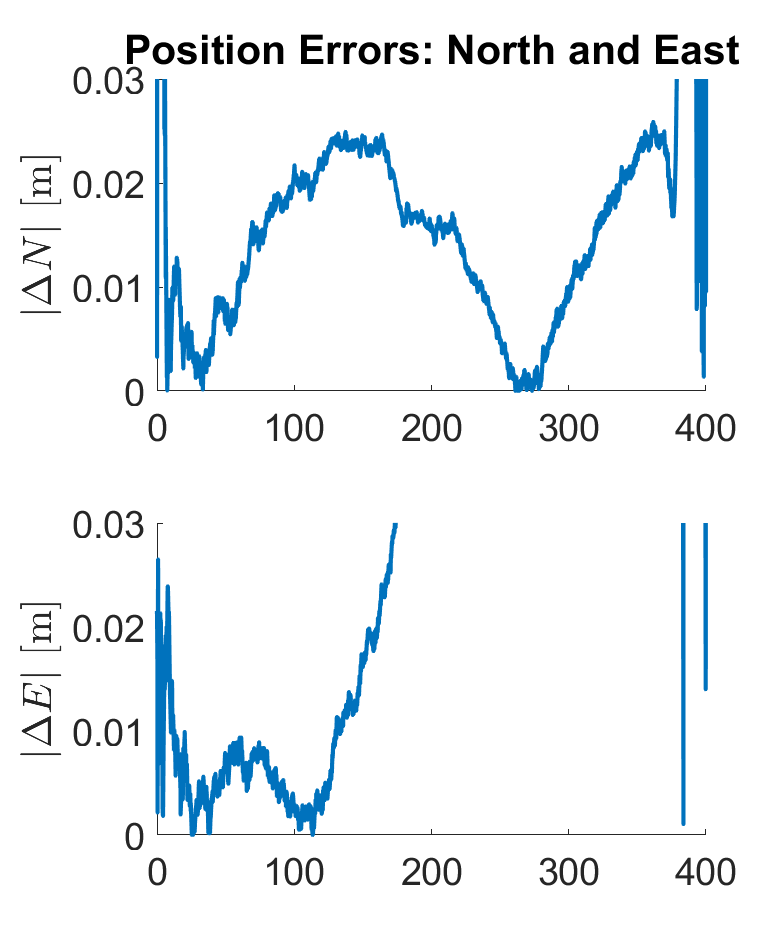
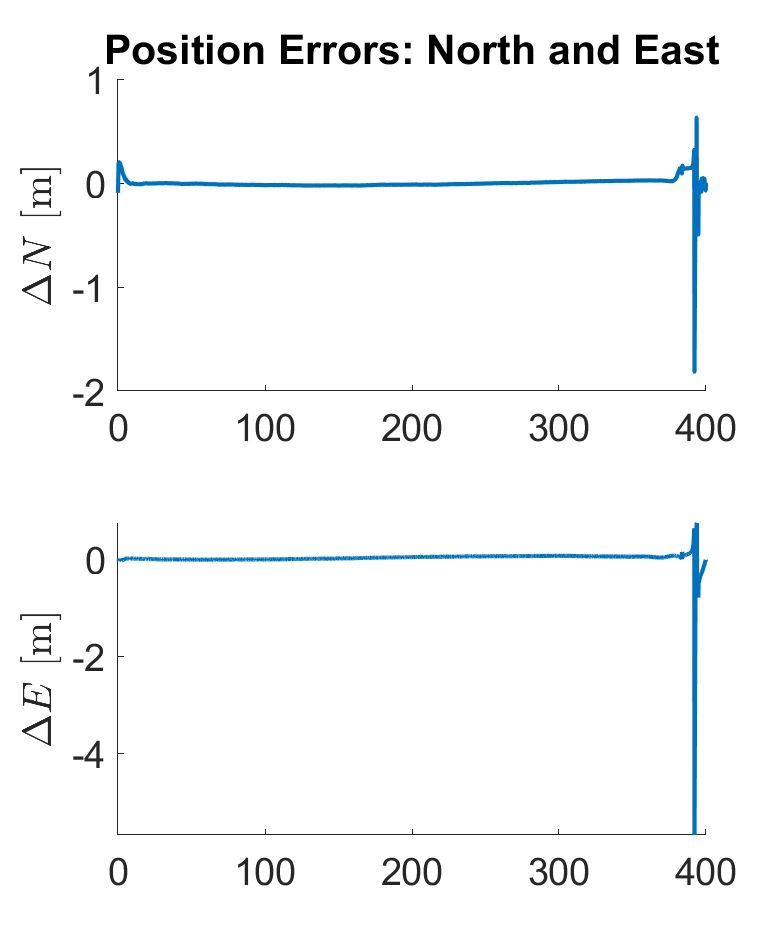
fixed plots

diff --git a/plotData.m b/plotData.m
@@ -14,7 +14,17 @@ xlabel('Longitude [deg]','Interpreter','latex')
 ylabel('Latitude [deg]','Interpreter','latex')
 zlabel('h [m]','Interpreter','latex')
 view(-45,25)
-legend('IMU','Reference','Location','eastoutside')
+legend('FVDM','Reference','Location','eastoutside')
+ax = gca;
+ax.FontSize = 18;
+grid
+
+%% GEOPLOT
+geoplotFig = figure('Units','normalized','Position',[0.25 0.25 0.5 0.5],'Name','3D Trajectory');
+geoplot(ref.lat.*R2D, ref.lon.*R2D, '--k','LineWidth', weight)
+hold on
+geoplot(esti.lat.*R2D, esti.lon.*R2D,'LineWidth', weight)
+% legend('Reference','Location','eastoutside')
 ax = gca;
 ax.FontSize = 18;
 grid
@@ -61,29 +71,28 @@ fig_eul_err = figure('Units','normalized','Position',plotSize,'Name','Euler Angl
 tiledlayout(3,1)
 nexttile
 hold on
-plot(esti.t, abs(wrapTo180(R2D.*(esti.roll - ref.roll))),'LineWidth', weight)
+plot(esti.t, (wrapTo180(R2D.*(esti.roll - ref.roll))),'LineWidth', weight)
 xlim([esti.tg(1) esti.tg(end)])
-ylim([0 8])
-ylabel('$$\vert\Delta\phi\vert$$ [deg]','Interpreter','latex')
+ylabel('$$\Delta\phi$$ [deg]','Interpreter','latex')
 title('Euler Angle Errors')
 ax = gca;
 ax.FontSize = 18;
 
 nexttile
 hold on
-plot(esti.t, abs(wrapTo180(R2D.*(esti.pitch - ref.pitch))),'LineWidth', weight)
-ylim([0 8])
+plot(esti.t, (wrapTo180(R2D.*(esti.pitch - ref.pitch))),'LineWidth', weight)
+
 xlim([esti.tg(1) esti.tg(end)])
-ylabel('$$\vert\Delta\theta\vert$$ [deg]','Interpreter','latex')
+ylabel('$$\Delta\theta$$ [deg]','Interpreter','latex')
 ax = gca;
 ax.FontSize = 18;
 
 nexttile
 hold on
-plot(esti.t, abs(wrapTo180(R2D.*(esti.yaw - ref.yaw))),'LineWidth', weight)
-ylim([0 8])
+plot(esti.t, (wrapTo180(R2D.*(esti.yaw - ref.yaw))),'LineWidth', weight)
+
 xlim([esti.tg(1) esti.tg(end)])
-ylabel('$$\vert\Delta\psi\vert$$ [deg]','Interpreter','latex')
+ylabel('$$\Delta\psi$$ [deg]','Interpreter','latex')
 xlabel('Time [s]')
 ax = gca;
 ax.FontSize = 18;
@@ -126,28 +135,28 @@ fig_vel_err = figure('Units','normalized','Position',plotSize,'Name','NED Veloci
 tiledlayout(3,1)
 nexttile
 hold on
-plot(esti.t, abs(esti.vel(:,1) - ref.vel(:,1)),'LineWidth', 2)
-ylabel('$$\vert\Delta V_N\vert$$ [m/s]','Interpreter','latex')
+plot(esti.t, (esti.vel(:,1) - ref.vel(:,1)),'LineWidth', 2)
+ylabel('$$\Delta V_N$$ [m/s]','Interpreter','latex')
 title('Velocity Errors')
-ylim([0 1])
+
 xlim([esti.tg(1) esti.tg(end)])
 ax = gca;
 ax.FontSize = 18;
 
 nexttile
 hold on
-plot(esti.t, abs(esti.vel(:,2) - ref.vel(:,2)),'LineWidth', 2)
-ylabel('$$\vert\Delta V_E\vert$$ [m/s]','Interpreter','latex')
-ylim([0 1])
+plot(esti.t, (esti.vel(:,2) - ref.vel(:,2)),'LineWidth', 2)
+ylabel('$$\Delta V_E$$ [m/s]','Interpreter','latex')
+
 xlim([esti.tg(1) esti.tg(end)])
 ax = gca;
 ax.FontSize = 18;
 
 nexttile
 hold on
-plot(esti.t, abs(esti.vel(:,3) - ref.vel(:,3)),'LineWidth', 2)
-ylabel('$$\vert\Delta V_D\vert$$ [m/s]','Interpreter','latex')
-ylim([0 1])
+plot(esti.t, (esti.vel(:,3) - ref.vel(:,3)),'LineWidth', 2)
+ylabel('$$\Delta V_D$$ [m/s]','Interpreter','latex')
+
 xlim([esti.tg(1) esti.tg(end)])
 xlabel('Time [s]')
 ax = gca;
@@ -195,31 +204,28 @@ fig_pos_err_NE = figure('Units','normalized','Position',plotSize,'Name','Positio
 tiledlayout(2,1)
 nexttile
 hold on
-plot(esti.t, abs(estiPosition_ECEF(:,1) - refPosition_ECEF(:,1)),'LineWidth', 2)
-ylim([0 0.03])
+plot(esti.t, (estiPosition_ECEF(:,1) - refPosition_ECEF(:,1)),'LineWidth', 2)
 xlim([esti.tg(1) esti.tg(end)])
-ylabel('$$\vert\Delta N\vert$$ [m]','Interpreter','latex')
+ylabel('$$\Delta N$$ [m]','Interpreter','latex')
 title('Position Errors: North and East')
 ax = gca;
 ax.FontSize = 18;
 
 nexttile
 hold on
-plot(esti.t, abs(estiPosition_ECEF(:,2) - refPosition_ECEF(:,2)),'LineWidth', 2)
-ylim([0 0.03])
+plot(esti.t, (estiPosition_ECEF(:,2) - refPosition_ECEF(:,2)),'LineWidth', 2)
 xlim([esti.tg(1) esti.tg(end)])
-ylabel('$$\vert\Delta E\vert$$ [m]','Interpreter','latex')
+ylabel('$$\Delta E$$ [m]','Interpreter','latex')
 ax = gca;
 ax.FontSize = 18;
 
 fig_pos_err_D = figure('Units','normalized','Position',[0.25 0.25 0.26 0.25],'Name','Position Errors');
 hold on
-plot(esti.t, abs(estiPosition_ECEF(:,3) - refPosition_ECEF(:,3)),'LineWidth', 2)
-ylim([0 1])
+plot(esti.t, (estiPosition_ECEF(:,3) - refPosition_ECEF(:,3)),'LineWidth', 2)
 xlim([esti.tg(1) esti.tg(end)])
 title('Position Errors: Down Only')
 xlabel('Time [s]')
-ylabel('$$\vert\Delta D\vert$$ [m]','Interpreter','latex')
+ylabel('$$\Delta D$$ [m]','Interpreter','latex')
 ax = gca;
 ax.FontSize = 18;
 

diff --git a/main.m b/main.m
@@ -139,7 +139,7 @@ for i = 2:numIMUIterations
 
     %% Only perform A Posteriori update if there are GPS Measurements at the current timestep
     measurementUpdateIdx = find(simulatedGPS.t >= (simulatedIMU.t(i) - simulatedGPS.eps) & simulatedGPS.t < (simulatedIMU.t(i) + simulatedGPS.eps));
-
+ 
     if ( ~isempty(measurementUpdateIdx) && measurementUpdateIdx > 1)
         % Current GPS time step (time since last mesurement update)
         timeStepGPS = simulatedGPS.t(measurementUpdateIdx) - simulatedGPS.t(measurementUpdateIdx-1);
